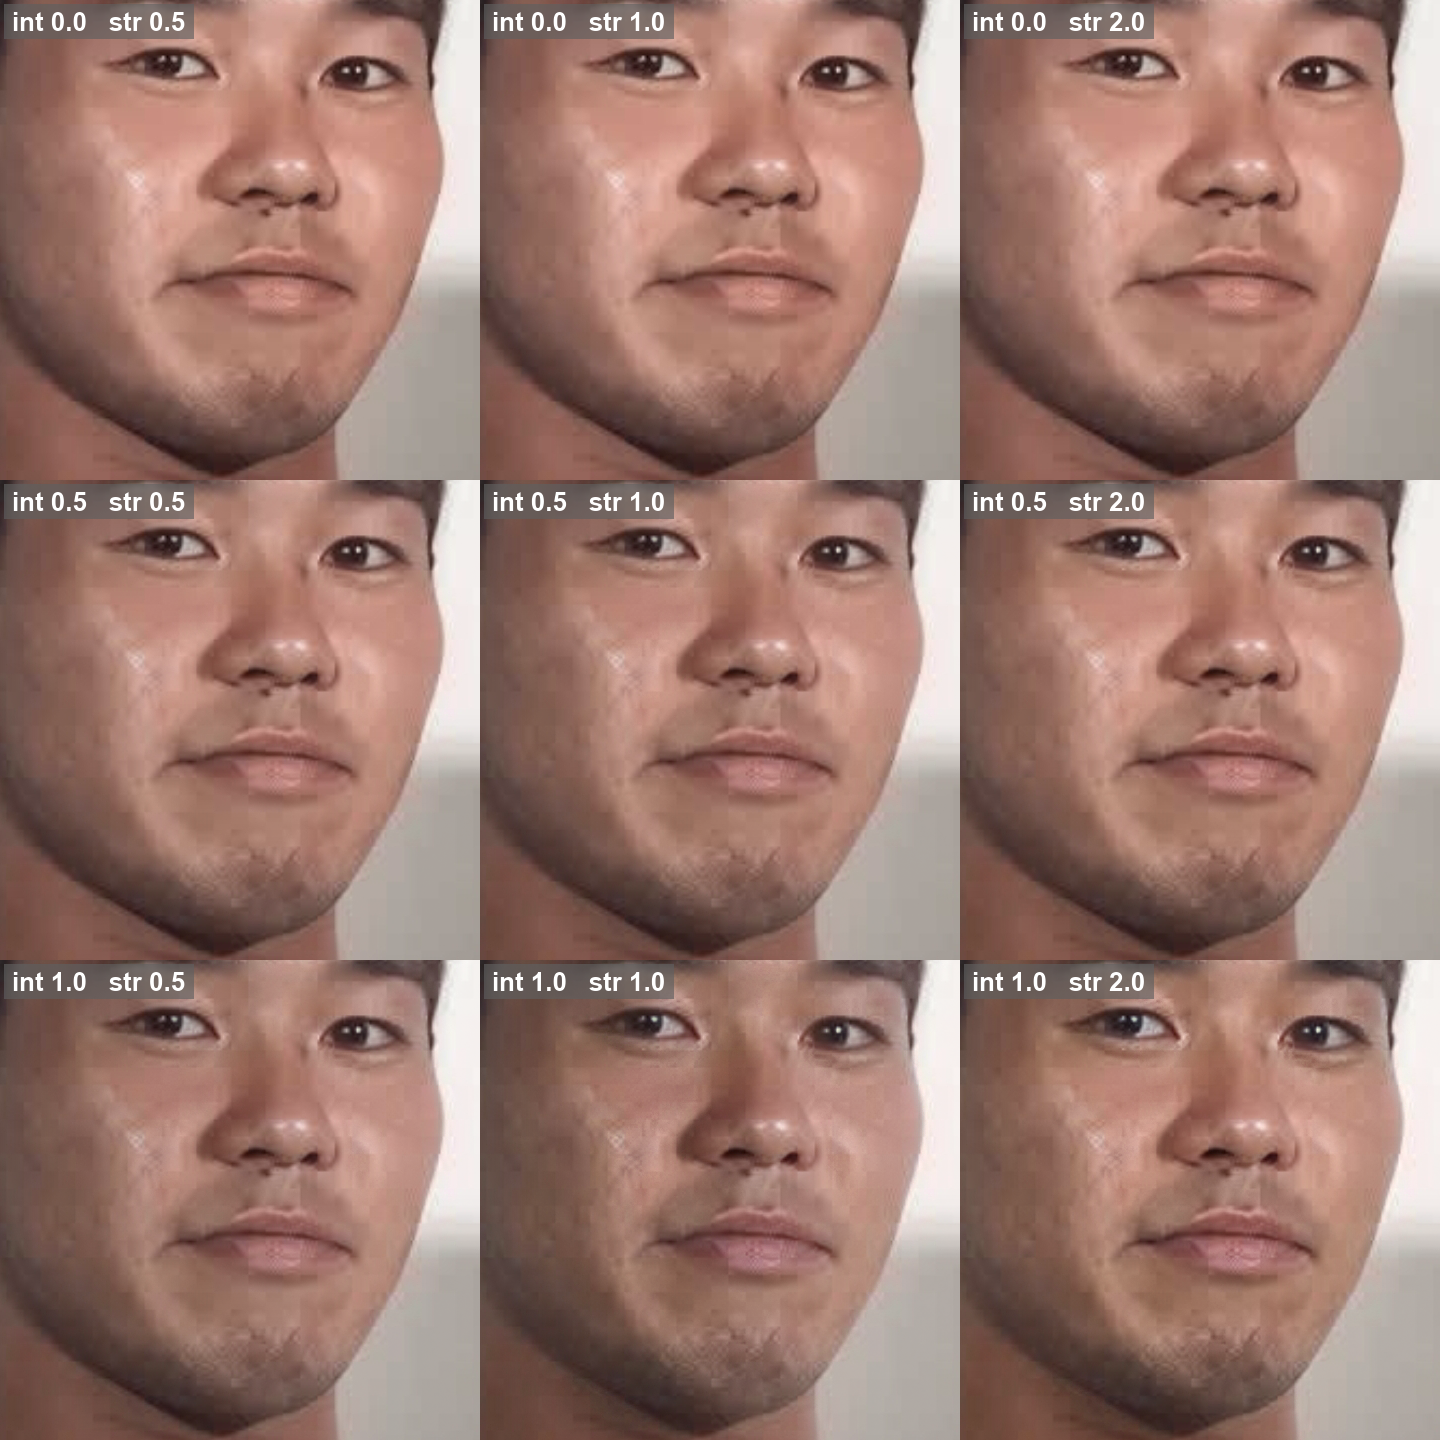
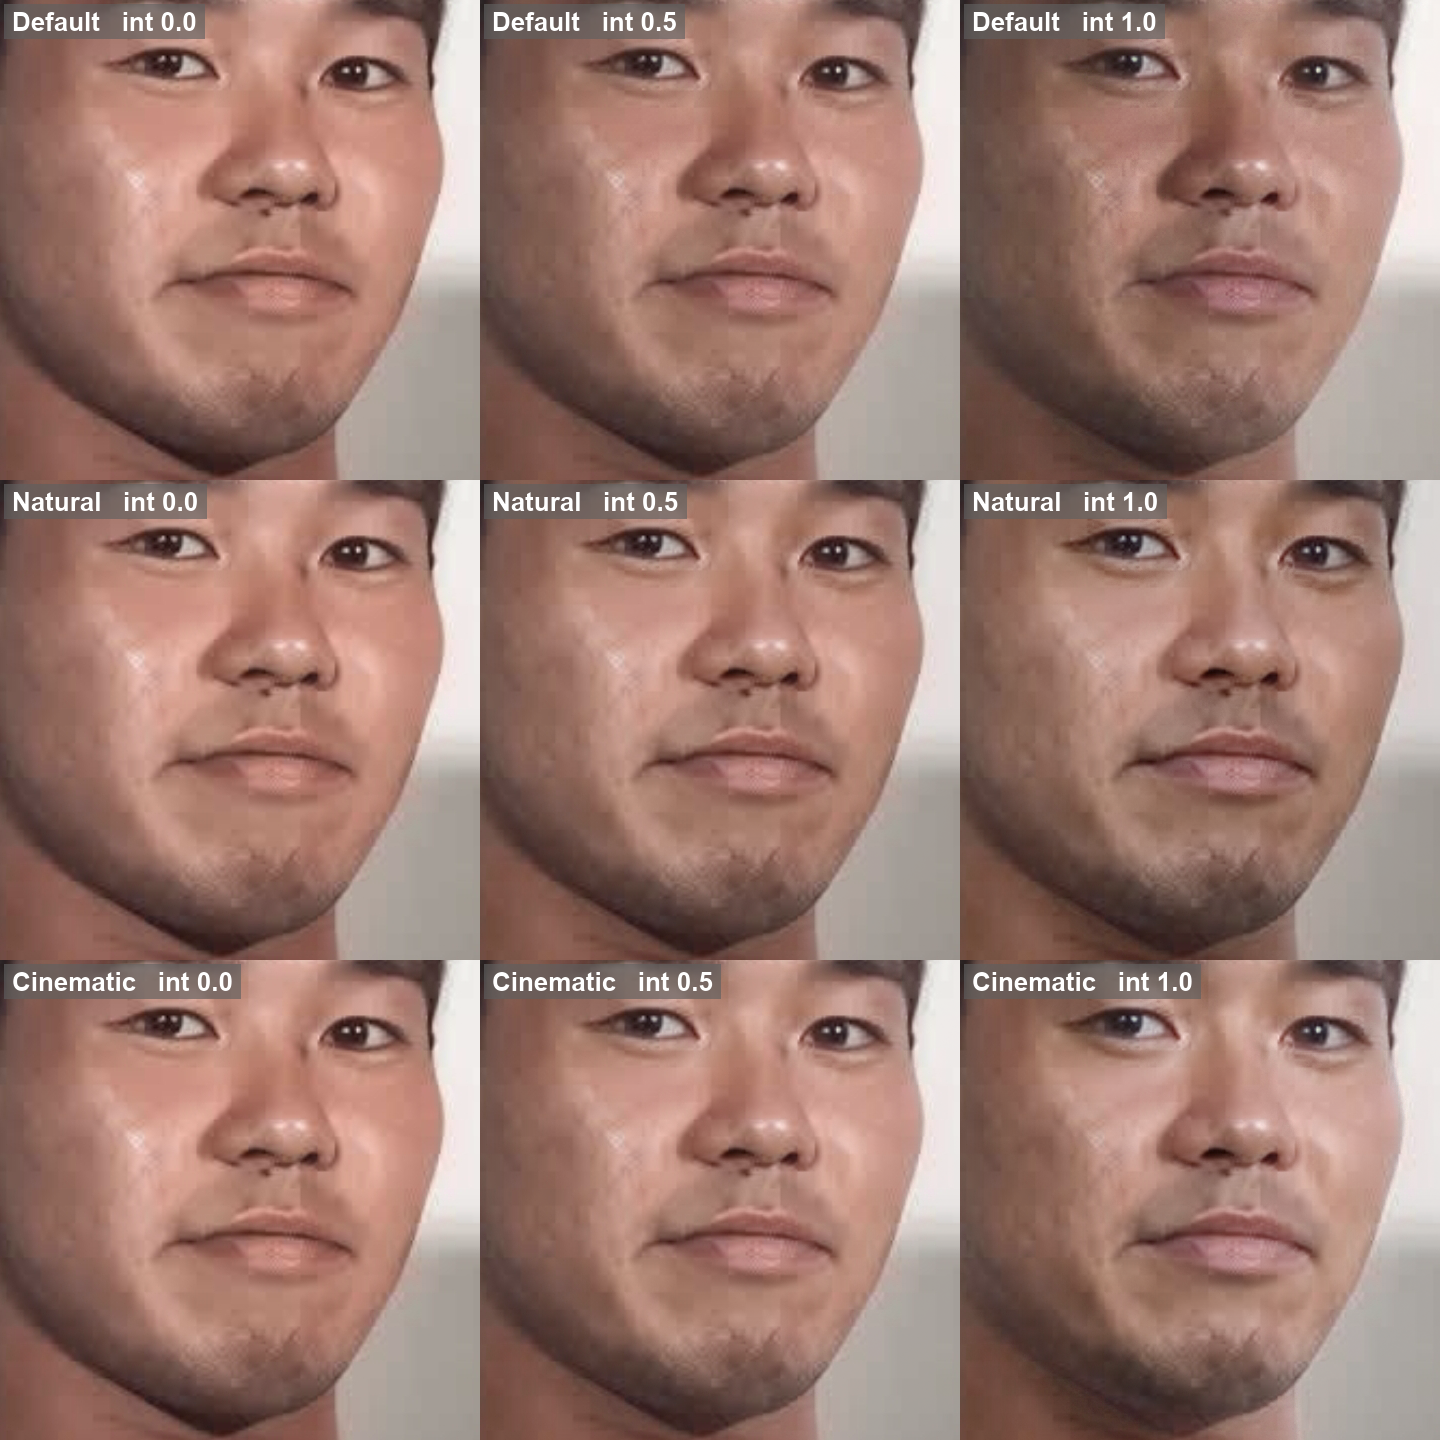
docs: NR style x intensity matrix and corrected control notes

diff --git a/README.md b/README.md
@@ -10,14 +10,16 @@ with a **React + Material UI** web front end. DLSS runtimes are version-switchab
 
 <sub>DLSS Neural Rendering (NGX feature 18) on a real photo — 100% crop, left original / right enhanced.</sub>
 
-The look is tunable. This matrix sweeps **intensity** (rows — the 0–1 enhancement blend) against
-**local structure** (columns — fine-detail strength) on the same crop:
+The look is tunable — the reference project's controls (model preset, style, intensity and the
+strength sliders) are all exposed. This matrix sweeps **style** (rows) against **intensity** (columns)
+on the same crop:
 
-![DLSS Neural Rendering parameter matrix — intensity vs. local structure](docs/images/nr-matrix.png)
+![DLSS Neural Rendering parameter matrix — style vs. intensity](docs/images/nr-matrix.png)
 
-<sub>Rows top→bottom: intensity 0.0 / 0.5 / 1.0 (0.0 = original). Columns left→right: local-structure
-0.5 / 1.0 / 2.0. Model preset was tested and has no visible effect on the current driver, so it is
-omitted here.</sub>
+<sub>Rows top→bottom: style Default / Natural / Cinematic. Columns left→right: intensity 0.0 / 0.5 /
+1.0 (0.0 = original). NR model preset (0–3) is also adjustable, but it is an experimental,
+content-dependent hint (per the reference) — Default is recommended and it showed no visible change on
+this photo.</sub>
 
 > **Status (2026-09-09).** Runs on the project's RTX 5090. The **web UI** now covers the whole
 > pipeline — DLSS Super Resolution upscaling, Neural Rendering (feature 18), Frame Generation, DLSS
@@ -124,10 +126,10 @@ size and the look controls:
 
 **Notes / honest caveats:**
 
-- The `nr` engine applies the feature-18 controls this runtime actually honours — **intensity**
-  (a 0–1 blend), **style**, **local tone**, **local structure** and **skin structure** (skin only).
-  Model **preset** and **global tone** had no measurable effect on the current driver, so the UI
-  does not show them.
+- The `nr` engine exposes the reference project's controls — **model preset**, **style**, **intensity**
+  (0–2), **local tone**, **local structure** and **skin structure** (skin only). Style and the strength
+  sliders have a strong, visible effect; **model preset** (0–3) is an experimental, content-dependent
+  hint (Default recommended); **global tone** is not applied by the current runtime.
 - **DLSS version selection**: the picker defaults to the bundled DLL. Loading an alternate (not
   driver-matched) DLSS DLL can intermittently fail to initialise on newer drivers (a known
   DLSS-Swapper behaviour); the job then reports a clear error and you can retry or pick another.
@@ -207,7 +209,7 @@ Verified against the source on 2026-09-09.
 | DLSS version enumeration | ✅ `versions` | ✅ (`/api/catalog`) | shown in the version picker |
 | DLSS version selection | ✅ SR (`sr --dlss-version`) | ✅ (sr/nr) | alternate DLLs may fail to init on newer drivers |
 | Browser file upload | n/a | ✅ | POST /api/upload; stored under logs/uploads/ |
-| NR look controls | ✅ (`nr`) | ✅ working ones | intensity(0–1)/style/tone/structure apply; preset & global tone inert on this driver |
+| NR look controls | ✅ (`nr`) | ✅ | style / intensity(0–2) / tone / structure apply strongly; preset exposed (experimental); global tone not applied |
 | NVENC (GPU) video encode | ✅ if requested | ✅ if selected | frame-gen GPU-encodes by default |
 | RTX Video Super Resolution / TrueHDR | ❌ | ❌ | DLLs present but no code path uses them |
 
@@ -219,8 +221,9 @@ Verified against the source on 2026-09-09.
   pipelining, and optical flow is single-threaded TypeScript — planned: keep frames GPU-resident,
   pipeline the GPU, and add a native optical-flow backend.
 - **feature 18 in the pipeline — _done_.** The `nr` engine (image and video) now runs DLSS Neural
-  Rendering and applies the look controls this runtime honours. Model preset and global tone have no
-  effect on the current driver; feature 18 also does not consume motion vectors.
+  Rendering and exposes the reference's controls (model preset, style, intensity, tone/structure).
+  Model preset is an experimental, content-dependent hint; global tone is not applied; feature 18 does
+  not consume motion vectors.
 - **UI feature exposure — _done_.** SR upscaling, frame generation, DLSS version selection and
   browser upload are now in the web UI (see the table above).
 - **RTX Video Super Resolution** is not implemented (the DLLs under `runtime/rtx_video` are unused).
